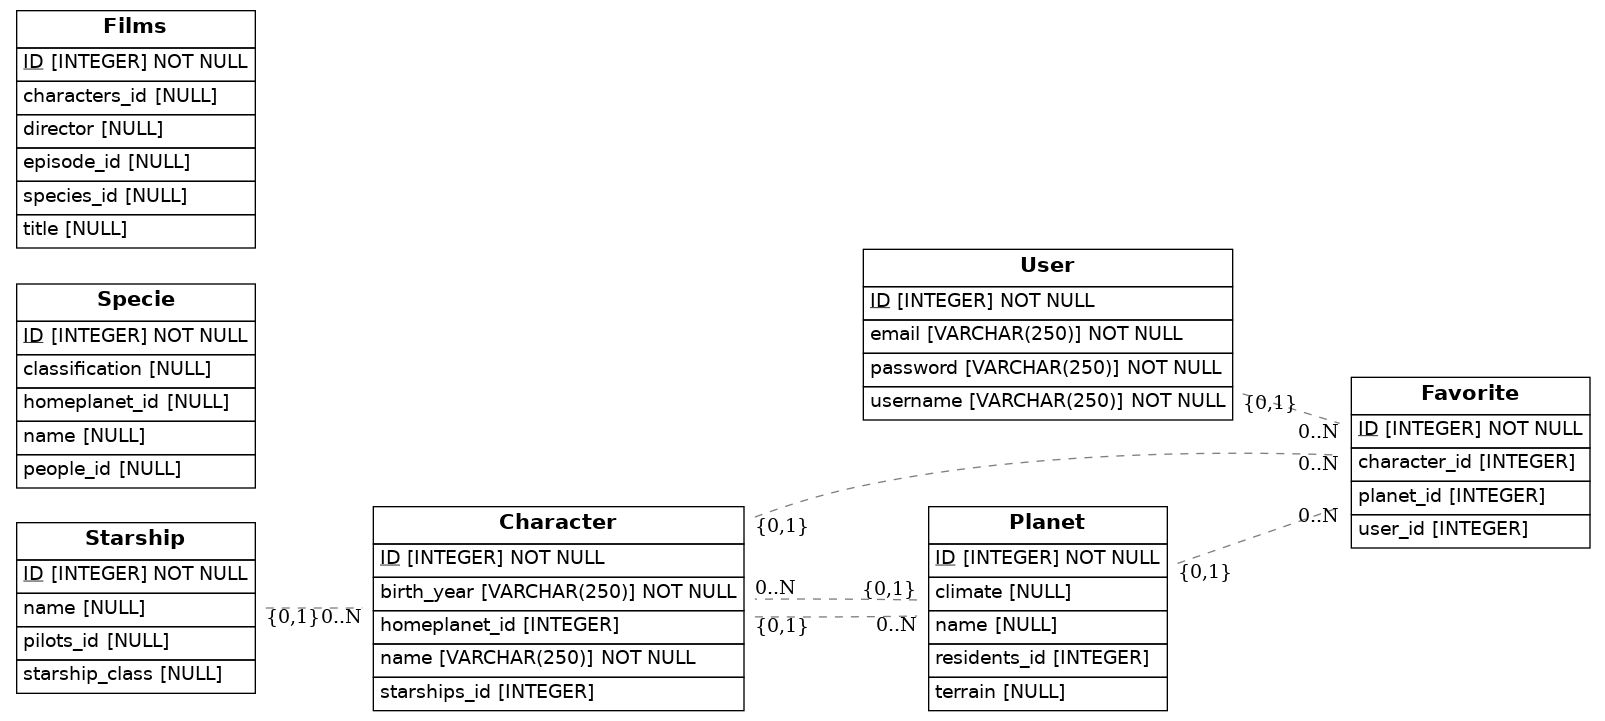
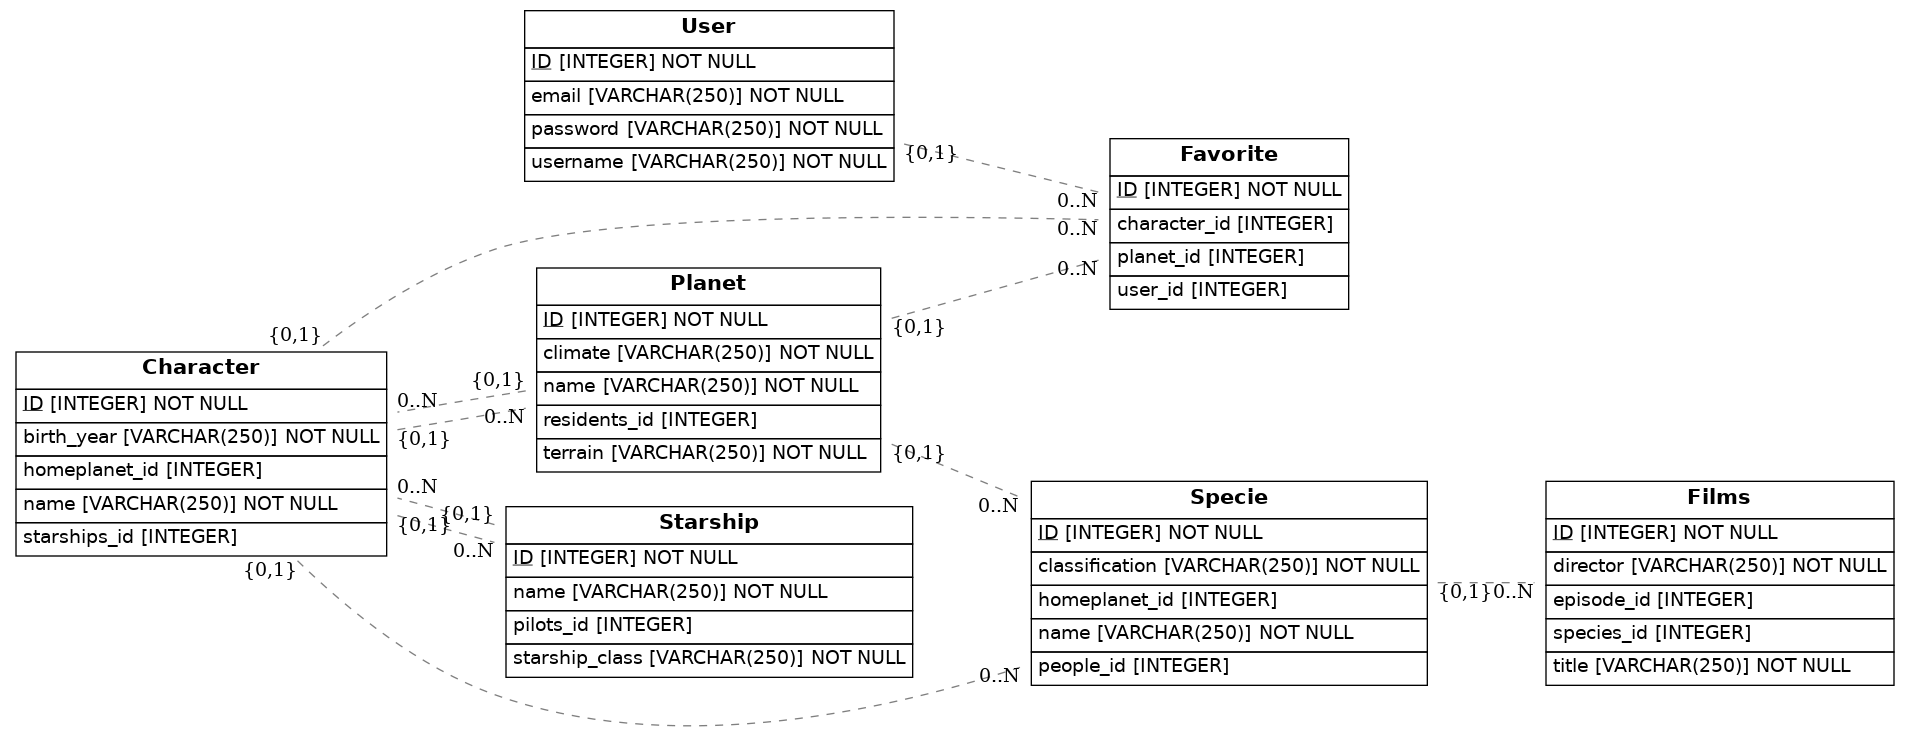
finished starwars blog

diff --git a/src/models.py b/src/models.py
@@ -42,25 +42,25 @@ class Favorite(Base): #✔
 
 class Character(Base):
     __tablename__ = "Character"
-    #Columns
+    # Columns
     ID = Column(Integer, primary_key=True, nullable=False)
     name = Column(String(250), nullable=False)
-    homeplanet_id = Column(Integer, ForeignKey('Planet.ID')) #foreignkey planet
-    starships_id = Column(Integer, ForeignKey('Starship.ID')) #foreignkey starship
+    homeplanet_id = Column(Integer, ForeignKey('Planet.ID')) # foreign key to Planet
+    starships_id = Column(Integer, ForeignKey('Starship.ID')) # foreign key to Starship
     birth_year = Column(String(250), nullable=False)
 
-    #Relationships
-    homeplanet = relationship('Planet') #1 to 1
-    starships = relationship('Starship') #1 to many
+    # Relationships
+    homeplanet = relationship('Planet', backref='residents') # 1 to many
+    starships = relationship('Starship', backref='pilots') # 1 to many
 
 
 class Planet(Base):
     __tablename__ = "Planet"
     #Columns
     ID = Column(Integer, primary_key=True, nullable=False)
-    name = Column()
-    climate = Column()
-    terrain = Column()
+    name = Column(String(250), nullable=False)
+    climate = Column(String(250), nullable=False)
+    terrain = Column(String(250), nullable=False)
     residents_id = Column(Integer, ForeignKey('Character.ID')) #Foreignkey characters
 
     #Relationships
@@ -72,12 +72,12 @@ class Starship(Base):
     __tablename__ = "Starship"
     #Columns
     ID = Column(Integer, primary_key=True, nullable=False)
-    name = Column()
-    starship_class = Column()
-    pilots_id = Column() #foreignkey characters
+    name = Column(String(250), nullable=False)
+    starship_class = Column(String(250), nullable=False)
+    pilots_id = Column(Integer, ForeignKey('Character.ID')) #foreignkey characters
 
     #Relationships
-
+    pilots = relationship("Character", backref="starships")
 
 
 
@@ -85,28 +85,28 @@ class Specie(Base):
     __tablename__ = "Specie"
     #Columns
     ID = Column(Integer, primary_key=True, nullable=False)
-    name = Column()
-    classification = Column()
-    homeplanet_id = Column() #foreignkey planet
-    people_id = Column() #foreignkey characters
+    name = Column(String(250), nullable=False)
+    classification = Column(String(250), nullable=False)
+    homeplanet_id = Column(Integer, ForeignKey('Planet.ID')) #foreignkey planet
+    people_id = Column(Integer, ForeignKey('Character.ID')) #foreignkey characters
 
     #Relationships
+    homeplanet = relationship("Planet", backref="species")
+    people = relationship("Character", backref="specie")
 
 
 
-
-class Films(Base):
+class Film(Base):
     __tablename__ = "Films"
     #Columns
     ID = Column(Integer, primary_key=True, nullable=False)
-    title = Column()
-    episode_id  = Column()
-    director = Column()
-    characters_id = Column() #foreignkey characters
-    species_id = Column() #foreignkey specie
+    title = Column(String(250), nullable=False)
+    episode_id  = Column(Integer, unique=True)
+    director = Column(String(250), nullable=False)
+    species_id = Column(Integer, ForeignKey('Specie.ID')) #foreignkey specie
 
     #Relationships
-
+    species = relationship("Specie", backref="film")
 
 
 
